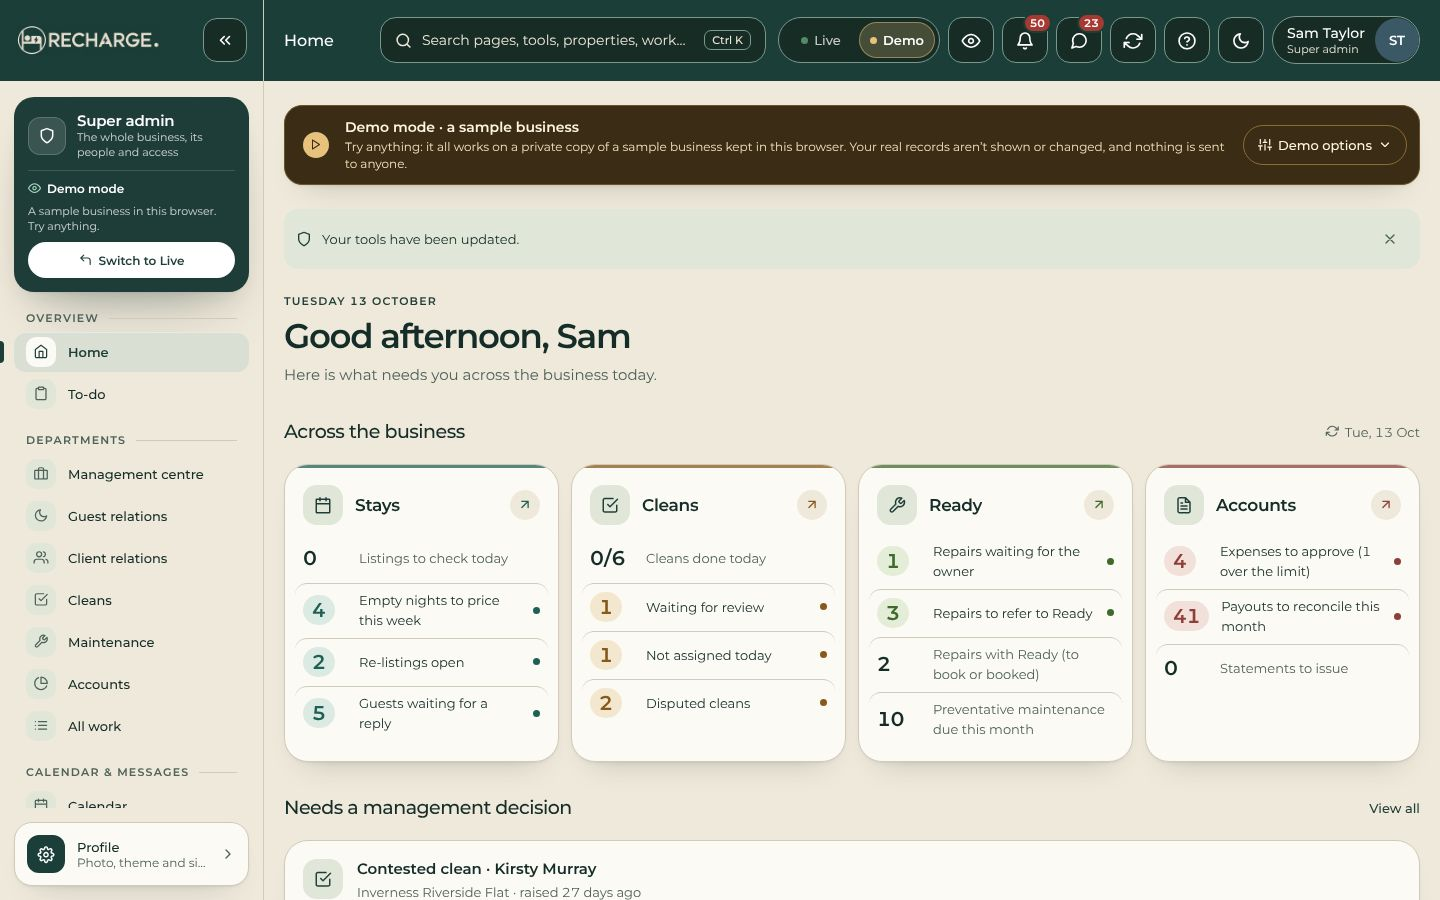
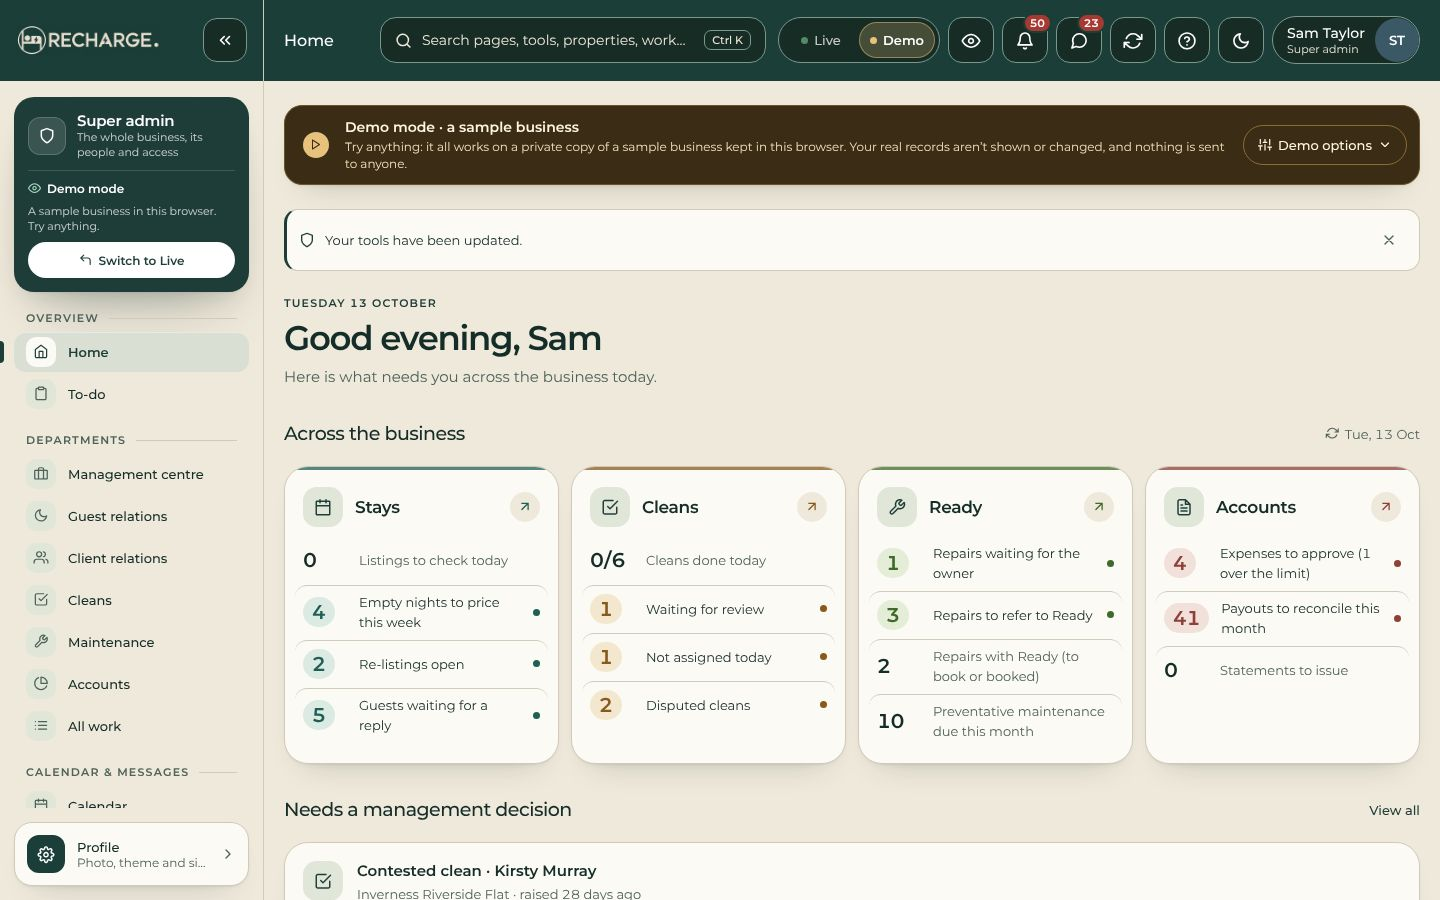
Info notice: a quiet surface card with a thin side rule, not a bright band
"Your tools have been updated" (and every access note) sat on the wash
fill, which in dark mode is a full-width bright-green band. It now uses
the surface, the hairline and a 3px primary rule on the leading edge,
like Notice in LiveKit. Contrast pairs unchanged (text, primary and
border on surface are already checked). Home after-screenshots retaken.

Claude-Session: https://claude.ai/code/session_01FkZ7wvBwi6Yb6jwxQq1MSy

diff --git a/mobile/src/LiveWorkspace.tsx b/mobile/src/LiveWorkspace.tsx
@@ -641,7 +641,7 @@ function Workspace({ account, realAccount, viewAs, onViewAs, notice, palette: p,
             <View ref={content} collapsable={false}><Animated.View style={{ opacity: fade, gap: 24, transform: desktop ? [{ translateY: fade.interpolate({ inputRange: [0, 1], outputRange: [8, 0] }) }] : [{ translateX: fade.interpolate({ inputRange: [0, 1], outputRange: [14, 0] }) }] }}>
               {demo ? <DemoBanner palette={p} viewing={viewAs?.person ? `${viewAs.person.fullName} (${viewAsLabel(viewAs.role)})` : null} onViewAs={() => setViewAsOpen(true)} onLive={() => onDemo(false)} />
                 : !!viewAs && <ViewAsBanner palette={p} view={viewAs} note={viewNote} onChange={() => setViewAsOpen(true)} onBack={() => void onViewAs(null)} />}
-              {!!accessNote && <View accessibilityRole="alert" style={[ui.row, { gap: 10, padding: 12, borderRadius: 14, backgroundColor: p.wash }]}><Feather name="shield" size={16} color={p.primary} /><Text style={[ui.small, { color: p.text, flex: 1 }]}>{accessNote}</Text><MotionPress accessibilityRole="button" accessibilityLabel="Dismiss" onPress={() => setAccessNote("")} style={{ minHeight: 36, minWidth: 36, alignItems: "center", justifyContent: "center" }}><Feather name="x" size={16} color={p.muted} /></MotionPress></View>}
+              {!!accessNote && <View accessibilityRole="alert" style={[ui.row, { gap: 10, padding: 12, borderRadius: 14, backgroundColor: p.surface, borderWidth: 1, borderColor: p.border, borderLeftWidth: 3, borderLeftColor: p.primary }]}><Feather name="shield" size={16} color={p.primary} /><Text style={[ui.small, { color: p.text, flex: 1 }]}>{accessNote}</Text><MotionPress accessibilityRole="button" accessibilityLabel="Dismiss" onPress={() => setAccessNote("")} style={{ minHeight: 36, minWidth: 36, alignItems: "center", justifyContent: "center" }}><Feather name="x" size={16} color={p.muted} /></MotionPress></View>}
               <AnchorRegistry.Provider value={anchors}><WorkFocusContext.Provider value={focus}><WorkJumpContext.Provider value={jump}><OwnerActions.Provider value={ownerActions}>{animatedPage}</OwnerActions.Provider></WorkJumpContext.Provider></WorkFocusContext.Provider></AnchorRegistry.Provider>
               {!!error && <View accessibilityRole="alert" style={[ui.row, { gap: 10, padding: 12, borderRadius: 14, backgroundColor: p.cautionWash }]}><Feather name="alert-circle" size={16} color={p.waiting} /><Text style={[ui.small, { color: p.text, flex: 1 }]}>{error}</Text><MotionPress accessibilityRole="button" onPress={() => void refresh()} style={{ minHeight: 36, justifyContent: "center" }}><Text style={[ui.small, { color: p.primary, fontWeight: "700" }]}>Try again</Text></MotionPress></View>}
             </Animated.View></View>
